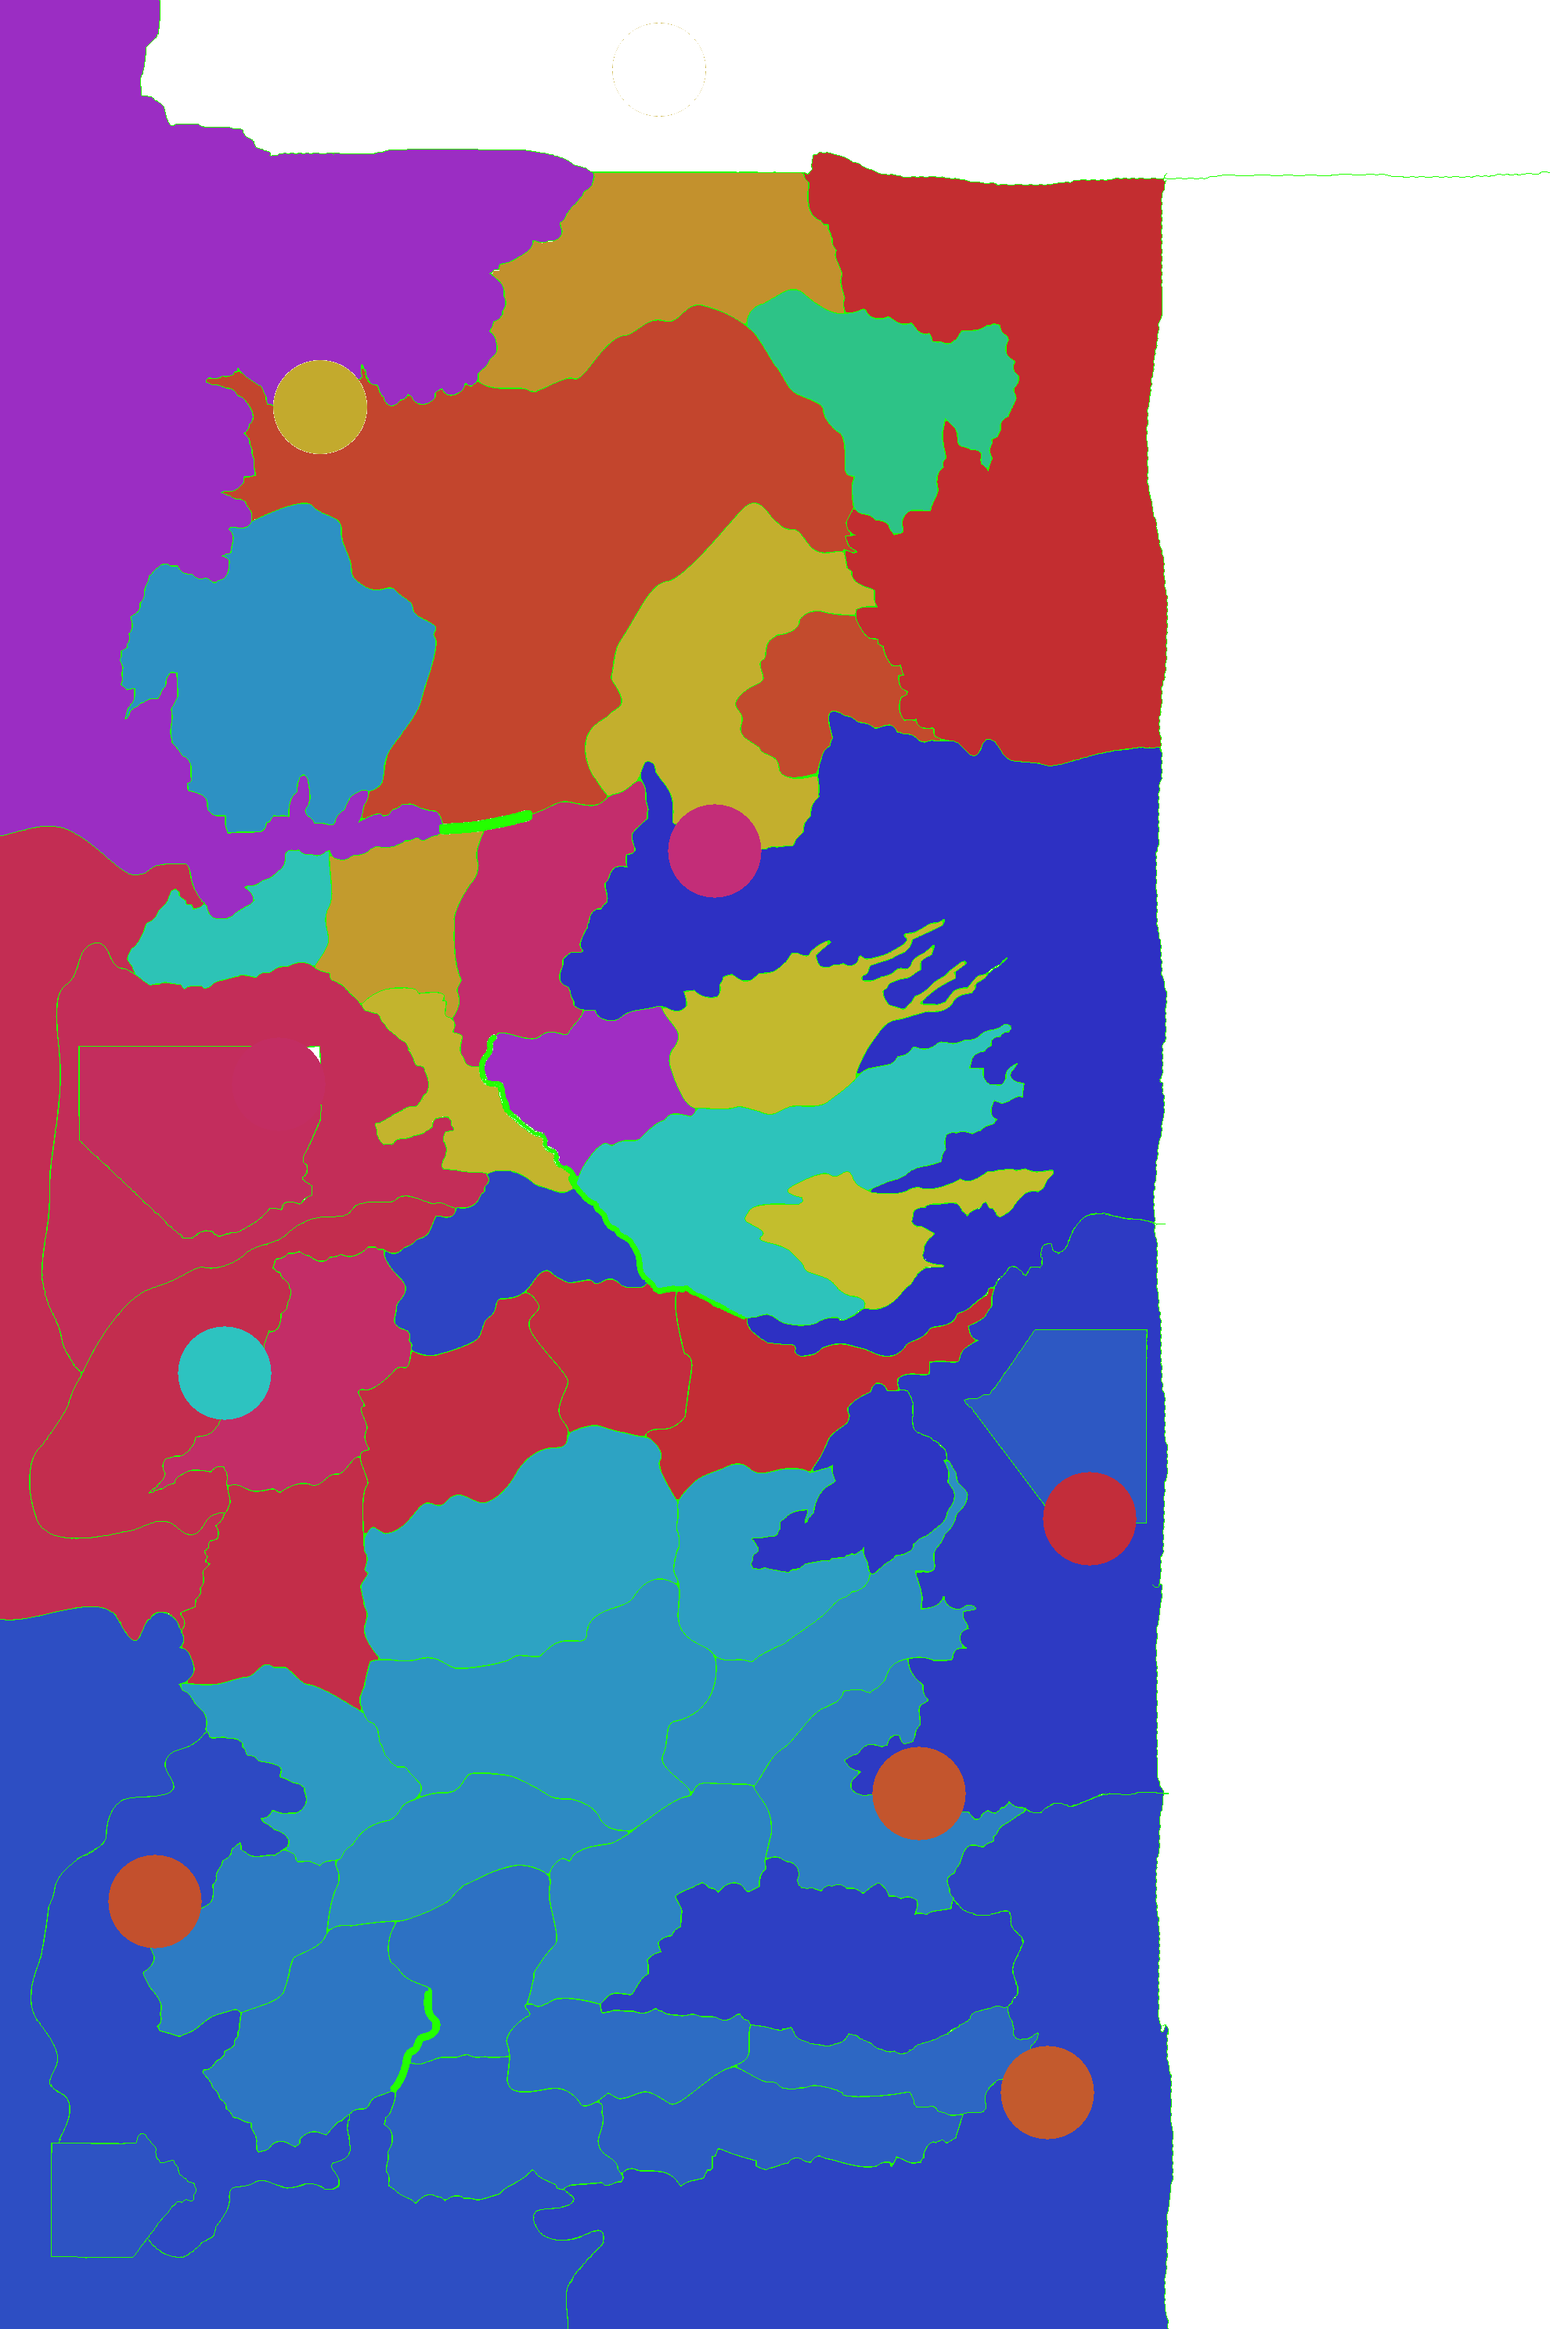
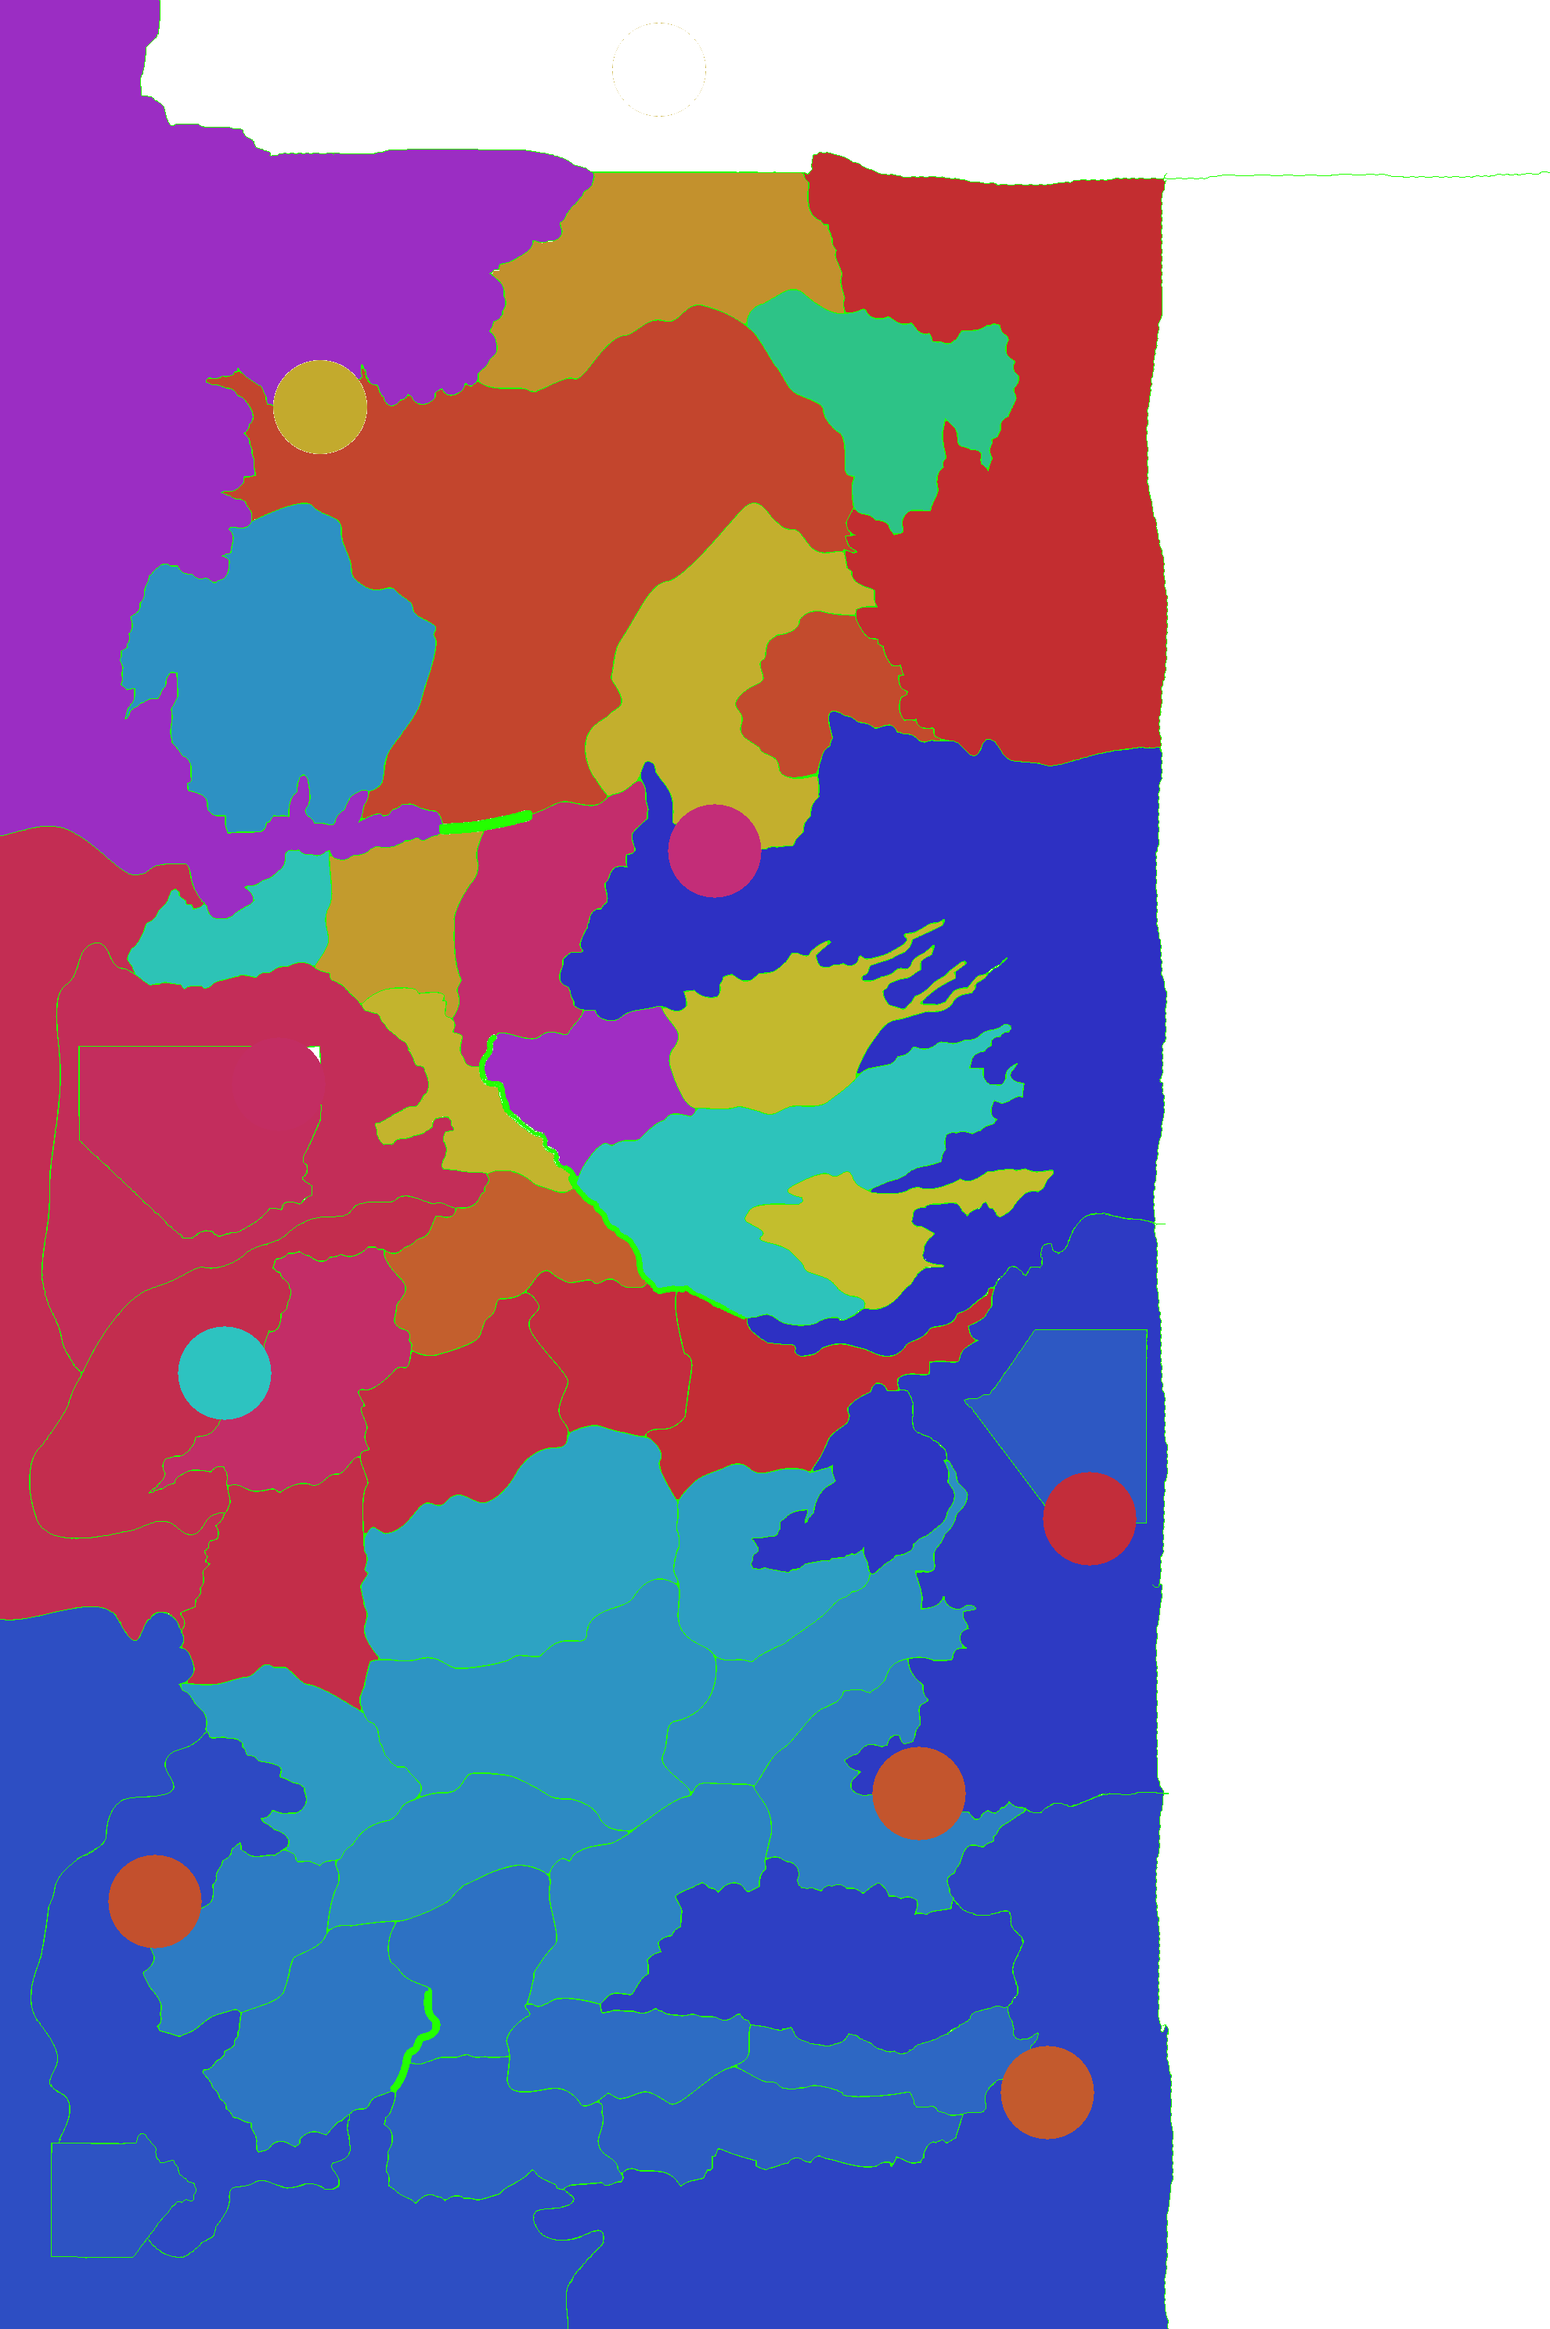
fixing bugs

Changed region(s): [[0.2465, 0.4948, 0.4313, 0.5876]]

diff --git a/collections/Territories.js b/collections/Territories.js
@@ -1,54 +1,62 @@
 var territories = [
-    {id: 1, type: 1, borderLand: [2, 3], borderSea: [1, 12], power: 1, hue: 40, name: "Castle Black"},
-    {id: 2, type: 1, port: {sea: 1, hue: 50}, borderLand: [1, 3, 4, 5, 9], borderSea: [1, 12], power: 1, supply: 1, muster: 2, hue: 10, name: "Winterfell"},
-    {id: 3, type: 1, borderLand: [1, 2], borderSea: [12], power: 1, hue: 156, name: "Karhold"},
-    {id: 4, type: 1, borderLand: [2], borderSea: [1], supply: 1, hue: 200, name: "Stony Shore"},
-    {id: 5, type: 1, port: {sea: 11, hue: 333}, borderLand: [2, 6, 9], borderSea: [11], muster: 1, hue: 52, name: "White Harbor"},
-    {id: 6, type: 1, borderLand: [5], borderSea: [11, 12], supply: 1, hue: 12, name: "Widow's Watch"},
-    {id: 7, type: 1, borderLand: [8], borderSea: [1, 2, 3], muster: 1, hue: 175, name: "Flint's Finger"},
-    {id: 8, type: 1, borderLand: [7, 9, 10], borderSea: [1, 3], supply: 1, hue: 44, name: "Greywater Watch"},
-    {id: 9, type: 1, borderLand: [2, 5, 8, 10, 11], borderSea: [11], muster: 1, hue: 335, name: "Moat Cailin"},
-    {id: 10, type: 1, borderLand: [8, 9, 11, 14], borderSea: [3], power: 1, muster: 2, supply: 1, hue: 54, name: "Seagard"},
-    {id: 11, type: 1, borderLand: [9, 10, 13, 15], borderSea: [11], power: 1, hue: 286, name: "The Twins"},
-    {id: 13, type: 1, borderLand: [11, 15], borderSea: [11], supply: 1, hue: 56, name: "The Fingers"},
-    {id: 14, type: 1, borderLand: [10, 17, 18, 19], borderSea: [3, 4], power: 1, supply: 1, muster: 2, hue: 231, name: "Riverrun"},
-    {id: 15, type: 1, borderLand: [11, 13, 16, 20], borderSea: [11], supply: 1, hue: 177, name: "The Mountains of the Moon"},
-    {id: 16, type: 1, borderLand: [15], borderSea: [11], power: 1, supply: 1, muster: 1, hue: 58, name: "The Eyrie"},
-    {id: 17, type: 1, borderLand: [14, 18, 21], borderSea: [4], port: {sea: 4, hue: 179}, supply: 2, muster: 2, hue: 337, name: "Lannisport"},
+    {id: 1, type: 1, borderLand: [2, 3], borderSea: [51, 62], power: 1, hue: 40, name: "Castle Black"},
+    {id: 2, type: 1, port: {sea: 51, hue: 50}, borderLand: [1, 3, 4, 5, 9], borderSea: [51, 62], power: 1, supply: 1, muster: 2, hue: 10, name: "Winterfell"},
+    {id: 3, type: 1, borderLand: [1, 2], borderSea: [62], power: 1, hue: 156, name: "Karhold"},
+    {id: 4, type: 1, borderLand: [2], borderSea: [51], supply: 1, hue: 200, name: "Stony Shore"},
+    {id: 5, type: 1, port: {sea: 61, hue: 333}, borderLand: [2, 6, 9], borderSea: [61], muster: 1, hue: 52, name: "White Harbor"},
+    {id: 6, type: 1, borderLand: [5], borderSea: [61, 62], supply: 1, hue: 12, name: "Widow's Watch"},
+    {id: 7, type: 1, borderLand: [8], borderSea: [51, 52, 53], muster: 1, hue: 175, name: "Flint's Finger"},
+    {id: 8, type: 1, borderLand: [7, 9, 10], borderSea: [51, 53], supply: 1, hue: 44, name: "Greywater Watch"},
+    {id: 9, type: 1, borderLand: [2, 5, 8, 10, 11], borderSea: [61], muster: 1, hue: 335, name: "Moat Cailin"},
+    {id: 10, type: 1, borderLand: [8, 9, 11, 14], borderSea: [53], power: 1, muster: 2, supply: 1, hue: 54, name: "Seagard"},
+    {id: 11, type: 1, borderLand: [9, 10, 13, 15], borderSea: [61], power: 1, hue: 286, name: "The Twins"},
+    {id: 13, type: 1, borderLand: [11, 15], borderSea: [61], supply: 1, hue: 56, name: "The Fingers"},
+    {id: 14, type: 1, borderLand: [10, 17, 18, 19], borderSea: [53, 54], power: 1, supply: 1, muster: 2, hue: 20, name: "Riverrun"},
+    {id: 15, type: 1, borderLand: [11, 13, 16, 20], borderSea: [61], supply: 1, hue: 177, name: "The Mountains of the Moon"},
+    {id: 16, type: 1, borderLand: [15], borderSea: [61], power: 1, supply: 1, muster: 1, hue: 58, name: "The Eyrie"},
+    {id: 17, type: 1, borderLand: [14, 18, 21], borderSea: [54], port: {sea: 54, hue: 179}, supply: 2, muster: 2, hue: 337, name: "Lannisport"},
     {id: 18, type: 1, borderLand: [14, 17, 19, 21, 22], power: 1, hue: 351, name: "Stoney Sept"},
     {id: 19, type: 1, borderLand: [14, 18, 20, 22], power: 1, muster: 1, hue: 353, name: "Harrenhall"},
-    {id: 20, type: 1, borderLand: [15, 19, 22, 23], borderSea: [11, 10], muster: 1, hue: 357, name: "Crackclaw Point"},
-    {id: 21, type: 1, borderLand: [17, 18, 22, 24, 25], borderSea: [2, 4, 5], supply: 1, hue: 349, name: "Searoad Marshes"},
+    {id: 20, type: 1, borderLand: [15, 19, 22, 23], borderSea: [511, 510], muster: 1, hue: 357, name: "Crackclaw Point"},
+    {id: 21, type: 1, borderLand: [17, 18, 22, 24, 25], borderSea: [52, 54, 55], supply: 1, hue: 349, name: "Searoad Marshes"},
     {id: 22, type: 1, borderLand: [18, 19, 20, 21, 23, 25], supply: 2, hue: 193, name: "Blackwater"},
-    {id: 23, type: 1, borderLand: [20, 22, 25, 26], borderSea: [10], power: 2, muster: 2, hue: 195, name: "King's Landing"},
-    {id: 24, type: 1, borderLand: [21, 25, 27, 30], borderSea: [5, 6], supply: 2, muster: 2, hue: 197, name: "Highgarden"},
+    {id: 23, type: 1, borderLand: [20, 22, 25, 26], borderSea: [60], power: 2, muster: 2, hue: 195, name: "King's Landing"},
+    {id: 24, type: 1, borderLand: [21, 25, 27, 30], borderSea: [55, 56], supply: 2, muster: 2, hue: 197, name: "Highgarden"},
     {id: 25, type: 1, borderLand: [21, 22, 23, 24, 26, 27, 28], muster: 1, hue: 199, name: "The Reach"},
-    {id: 26, type: 1, borderLand: [23, 25, 28, 29], borderSea: [9, 10], power: 1, supply: 1, hue: 201, name: "Kingswood"},
+    {id: 26, type: 1, borderLand: [23, 25, 28, 29], borderSea: [59, 60], power: 1, supply: 1, hue: 201, name: "Kingswood"},
     {id: 27, type: 1, borderLand: [24, 25, 28, 30, 31, 32], power: 1, hue: 203, name: "Dornish Marshes"},
-    {id: 28, type: 1, borderLand: [25, 26, 27, 29, 32, 33], borderSea: [8], power: 1, hue: 205, name: "The Boneway"},
-    {id: 29, type: 1, borderLand: [26, 28], borderSea: [7, 8, 9], port: {sea: 9, hue: 16}, muster: 1, hue: 207, name: "Storms End"},
-    {id: 30, type: 1, borderLand: [24, 27, 31], borderSea: [6], port: {sea: 6, hue: 14}, muster: 2, hue: 209, name: "Oldtown"},
-    {id: 31, type: 1, borderLand: [27, 30, 32], borderSea: [6], supply: 1, hue: 211, name: "Three Towers"},
+    {id: 28, type: 1, borderLand: [25, 26, 27, 29, 32, 33], borderSea: [58], power: 1, hue: 205, name: "The Boneway"},
+    {id: 29, type: 1, borderLand: [26, 28], borderSea: [57, 58, 59], port: {sea: 59, hue: 16}, muster: 1, hue: 207, name: "Storms End"},
+    {id: 30, type: 1, borderLand: [24, 27, 31], borderSea: [56], port: {sea: 56, hue: 14}, muster: 2, hue: 209, name: "Oldtown"},
+    {id: 31, type: 1, borderLand: [27, 30, 32], borderSea: [56], supply: 1, hue: 211, name: "Three Towers"},
     {id: 32, type: 1, borderLand: [27, 28, 31, 33, 35], power: 1, supply: 1, hue: 213, name: "Prince's Pass"},
-    {id: 33, type: 1, borderLand: [28, 32, 34, 35, 36], borderSea: [8], muster: 1, hue: 215, name: "Yronwood"},
-    {id: 34, type: 1, borderLand: [33, 36], borderSea: [7, 8], port: {sea: 7, hue: 18}, power: 1, supply: 1, muster: 2, hue: 217, name: "Sunspear"},
-    {id: 35, type: 1, borderLand: [32, 33, 36], borderSea: [5, 7], supply: 1, muster: 1, hue: 219, name: "Starfall"},
-    {id: 36, type: 1, borderLand: [33, 34, 35], borderSea: [7], supply: 1, hue: 221, name: "Salt Shore"},
-    {id: 37, type: 1, borderSea: [5, 6], power: 1, hue: 225, name: "The Arbor"},
-    {id: 38, type: 1, borderSea: [9], port: {sea: 9, hue: 355}, power: 1, supply: 1, muster: 2, hue: 223, name: "Dragonstone"},
-    {id: 39, type: 1, borderSea: [3], port: {sea: 3, hue: 339}, power: 1, supply: 1, muster: 2, hue: 341, name: "Pike"},
-    {id: 1, type: 2, borderLand: [1, 2, 4, 7, 8], borderSea: [2], ports: [1], hue: 284, name: "Bay of Ice"},
-    {id: 2, type: 2, borderLand: [7, 21], borderSea: [1, 3, 4, 5], hue: 345, name: "Sunset Sea"},
-    {id: 3, type: 2, borderLand: [7, 8, 10, 14, 39], borderSea: [2, 4], ports: [39], hue: 343, name: "Ironman's Bay"},
-    {id: 4, type: 2, borderLand: [14, 17, 21], borderSea: [2, 3], ports: [17], hue: 347, name: "The Golden Sound"},
-    {id: 5, type: 2, borderLand: [21, 24, 35, 37], borderSea: [2, 6, 7], hue: 227, name: "West Summer Sea"},
-    {id: 6, type: 2, borderLand: [24, 30, 31, 37], borderSea: [5], ports: [30], hue: 229, name: "Redwyne Straights"},
-    {id: 7, type: 2, borderLand: [35, 36, 34, 29], borderSea: [5, 8, 9], ports: [34], hue: 231, name: "East Summer Sea"},
-    {id: 8, type: 2, borderLand: [28, 29, 33, 34], borderSea: [7], hue: 233, name: "Sea of Dorne"},
-    {id: 9, type: 2, borderLand: [20, 26, 29, 38], borderSea: [7, 10, 11], ports: [29, 38], hue: 235, name: "Shipbreaker Bay"},
-    {id: 10, type: 2, borderLand: [20, 23, 26], borderSea: [9], hue: 237, name: "Blackwater Bay"},
-    {id: 11, type: 2, borderLand: [5, 6, 9, 11, 13, 15, 16, 20], borderSea: [9, 12], ports: [5], hue: 239, name: "The Narrow Sea"},
-    {id: 12, type: 2, borderLand: [1, 2, 3, 5, 6], borderSea: [11], hue: 359, name: "The Shimmering Sea"}
+    {id: 33, type: 1, borderLand: [28, 32, 34, 35, 36], borderSea: [58], muster: 1, hue: 215, name: "Yronwood"},
+    {id: 34, type: 1, borderLand: [33, 36], borderSea: [57, 58], port: {sea: 57, hue: 18}, power: 1, supply: 1, muster: 2, hue: 217, name: "Sunspear"},
+    {id: 35, type: 1, borderLand: [32, 33, 36], borderSea: [55, 57], supply: 1, muster: 1, hue: 219, name: "Starfall"},
+    {id: 36, type: 1, borderLand: [33, 34, 35], borderSea: [57], supply: 1, hue: 221, name: "Salt Shore"},
+    {id: 37, type: 1, borderSea: [55, 56], power: 1, hue: 225, name: "The Arbor"},
+    {id: 38, type: 1, borderSea: [59], port: {sea: 59, hue: 355}, power: 1, supply: 1, muster: 2, hue: 223, name: "Dragonstone"},
+    {id: 39, type: 1, borderSea: [53], port: {sea: 53, hue: 339}, power: 1, supply: 1, muster: 2, hue: 341, name: "Pike"},
+    {id: 51, type: 2, borderLand: [1, 2, 4, 7, 8], borderSea: [52], ports: [151], hue: 284, name: "Bay of Ice"},
+    {id: 52, type: 2, borderLand: [7, 21], borderSea: [51, 53, 54, 55], hue: 345, name: "Sunset Sea"},
+    {id: 53, type: 2, borderLand: [7, 8, 10, 14, 39], borderSea: [52, 54], ports: [139], hue: 343, name: "Ironman's Bay"},
+    {id: 54, type: 2, borderLand: [14, 17, 21], borderSea: [52, 53], ports: [117], hue: 347, name: "The Golden Sound"},
+    {id: 55, type: 2, borderLand: [21, 24, 35, 37], borderSea: [52, 56, 57], hue: 227, name: "West Summer Sea"},
+    {id: 56, type: 2, borderLand: [24, 30, 31, 37], borderSea: [55], ports: [130], hue: 229, name: "Redwyne Straights"},
+    {id: 57, type: 2, borderLand: [35, 36, 34, 29], borderSea: [55, 58, 59], ports: [134], hue: 231, name: "East Summer Sea"},
+    {id: 58, type: 2, borderLand: [28, 29, 33, 34], borderSea: [57], hue: 233, name: "Sea of Dorne"},
+    {id: 59, type: 2, borderLand: [20, 26, 29, 38], borderSea: [57, 60, 61], ports: [129, 138], hue: 235, name: "Shipbreaker Bay"},
+    {id: 60, type: 2, borderLand: [20, 23, 26], borderSea: [95], hue: 237, name: "Blackwater Bay"},
+    {id: 61, type: 2, borderLand: [5, 6, 9, 11, 13, 15, 16, 20], borderSea: [59, 62], ports: [105], hue: 239, name: "The Narrow Sea"},
+    {id: 62, type: 2, borderLand: [1, 2, 3, 5, 6], borderSea: [61], hue: 359, name: "The Shimmering Sea"},
+  {id: 102, type: 3, hue: 50, name: "Port of Winterfell"},
+  {id: 105, type: 3, hue: 330, name: "Port of White Harbor"},
+  {id: 117, type: 3, hue: 179, name: "Port of Lannisport"},
+  {id: 139, type: 3, hue: 339, name: "Port of Pyke"},
+  {id: 138, type: 3, hue: 355, name: "Port of Dragonstone"},
+  {id: 129, type: 3, hue: 16, name: "Port of Storms End"},
+  {id: 130, type: 3, hue: 14, name: "Port of Oldtown"},
+  {id: 134, type: 3, hue: 18, name: "Port of Sunspear"}
 ];
 
 

diff --git a/client/renderers/KineticRenderer.js b/client/renderers/KineticRenderer.js
@@ -157,7 +157,7 @@
           if (dragged.territoryHue !== cached.territoryHue) {
             $message
               .fadeOut(100, function() {
-                $(this).html(Territories.findOne({$or: [{hue:dragged.territoryHue}, {"port.hue":dragged.territoryHue}]}).name)
+                $(this).html(Territories.findOne({hue:dragged.territoryHue}).name);
                 dragged.messageComplete = true;
               })
               .fadeIn(100);
@@ -170,13 +170,13 @@
             token.setY(cached.y);
             tokenLayer.draw();
             if (cached.territoryHue !== 0) {
-              writeMessage(Territories.findOne({$or: [{hue:cached.territoryHue}, {"port.hue":cached.territoryHue}]}).name);
+              writeMessage(Territories.findOne({hue:cached.territoryHue}).name);
             }
           }
           $message
             .clearQueue()
             .stop()
-            .text(Territories.findOne({$or: [{hue:territoryHue}, {"port.hue":territoryHue}]}).name)
+            .text(Territories.findOne({hue:territoryHue}).name)
             .fadeIn(100)
             .delay(1000)
             .fadeOut(1000);
